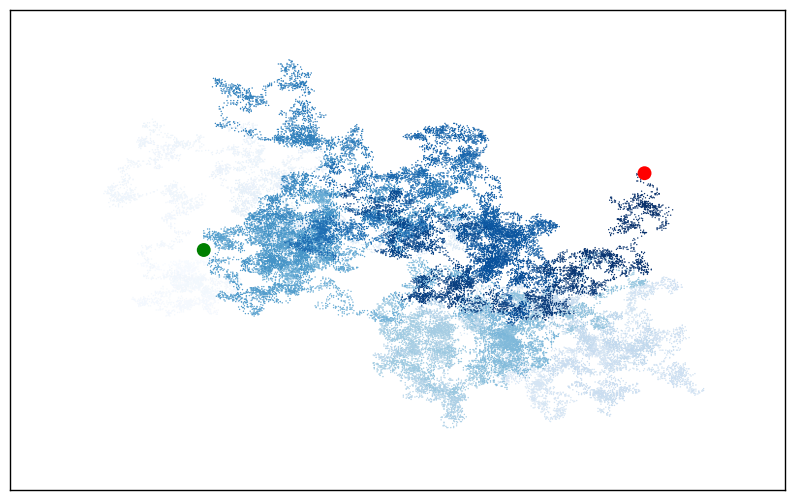
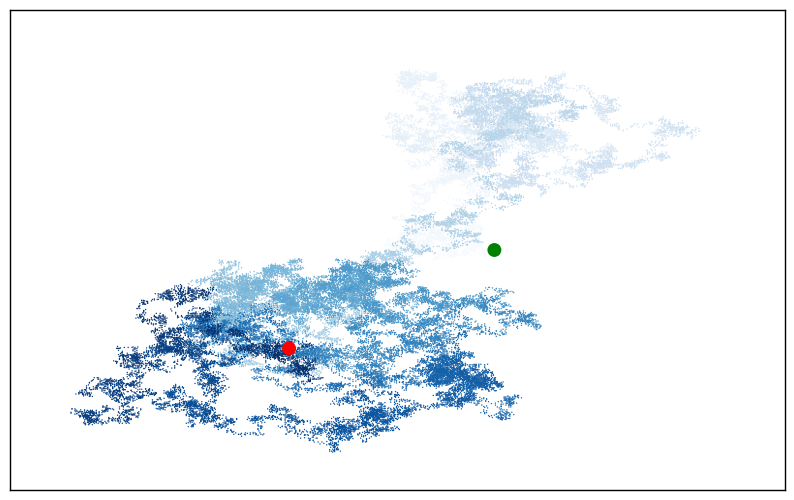
refactored randomwalk

Changed region(s): [[0.0907, 0.12, 0.8766, 0.9]]

diff --git a/data visualization/e03_randomWalk.py b/data visualization/e03_randomWalk.py
@@ -22,24 +22,28 @@ class RandomWalk():
         self.x_values = [0]
         self.y_values = [0]
 
+
+
+    def get_step(self):
+        direction = choice([1,-1])
+        distance = choice(list(range(9)))
+        step = direction * distance
+        return step
+
     # Calcuate all points in walk
     def fill_walk(self):
+
+        # defining some variables here
+        direction = [1, -1]
+        distance = range(0, 7)
 
         # take steps until desired length
         # simulates 4 random decisions
         while len(self.x_values) < self.num_points:
             # decide which direction to go and how far to go
             # 1 for right, -1 for left
-            x_direction = choice([1,-1])
-            x_distance = choice([0, 1, 2,3,4])
-            # determine length of each step in x direction 
-            x_step = x_direction * x_distance
-
-            # 1 for up, -1 for down
-            y_direction = choice([1,-1])
-            y_distance = choice([0, 1, 2,3,4])
-            # determine length of each step in y direction 
-            y_step = y_direction * y_distance
+            x_step = self.get_step()
+            y_step = self.get_step()
 
             # rejects move that go nowhere
             if x_step == 0 and y_step == 0:
@@ -51,4 +55,6 @@ class RandomWalk():
 
             self.x_values.append(next_x)
             self.y_values.append(next_y)
+
+    
 

diff --git a/data visualization/e03_visual2.py b/data visualization/e03_visual2.py
@@ -1,0 +1,34 @@
+import matplotlib.pyplot as plt 
+
+from e03_randomWalk import RandomWalk
+
+# make a random walk and plot points as long program active
+
+rw = RandomWalk(5000)
+rw.fill_walk()
+
+# set size of plotting window
+# figure() controls w, h, resolution, and background color of plot
+# figsize takes tuple that tells matplotlib dimensions of plotting window
+# in inches.
+plt.figure(dpi=128, figsize=(10,6))
+
+# feed random walk's x and y val to scatter
+# pass point_numbers to c arg, use blue colormap and use edgecolor=none
+# to remove black outline
+plt.plot(rw.x_values, rw.y_values, c='blue')
+# color the starting point green and in larger size
+plt.scatter(0, 0, c='green', edgecolors='none', s=100)
+# color ending point red and in larger size
+plt.scatter(rw.x_values[-1], rw.y_values[-1], c='red', edgecolors='none',
+    s=100)
+
+# removing the axes
+plt.axes().get_xaxis().set_visible(False)
+plt.axes().get_yaxis().set_visible(False)
+
+plt.savefig('e03_randomWalk2.png', bbox_inches='tight')
+plt.show()
+
+
+
